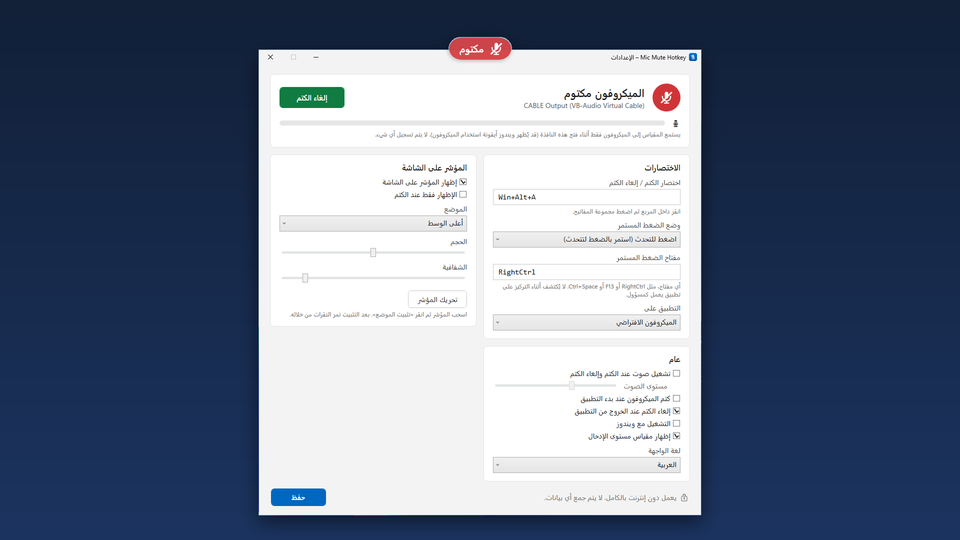
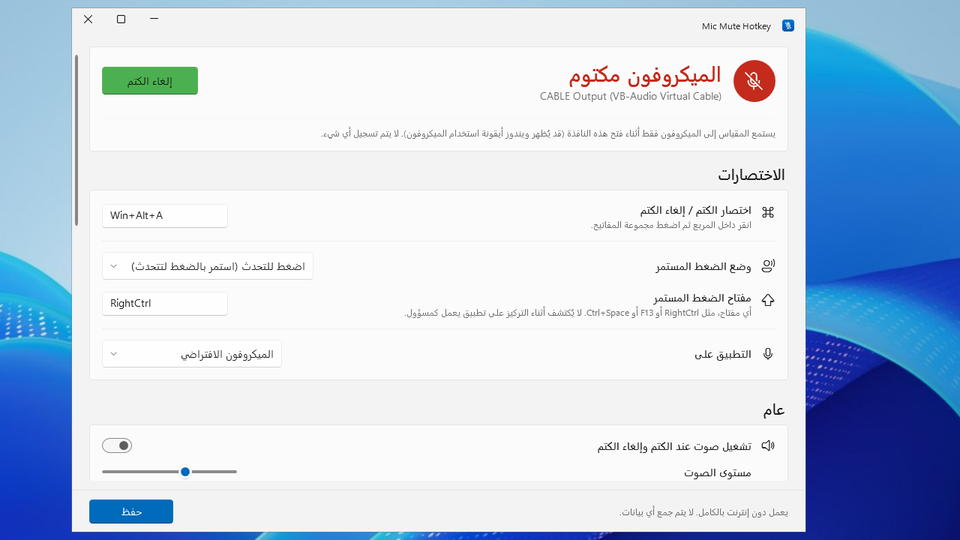
Mic Mute Hotkey 1.1.0.0: auto-mute on startup/lock, What's new, Windows 11 screenshots, softwareVersion, llms.txt, sitemap lastmod

diff --git a/ru/index.html b/ru/index.html
@@ -73,7 +73,7 @@ a{color:var(--b)}
    "applicationSubCategory": "Microphone mute / push-to-talk utility",
    "operatingSystem": "Windows 10 (version 1809 or later), Windows 11",
    "processorRequirements": "x64, ARM64",
-   "softwareVersion": "1.0",
+   "softwareVersion": "1.1.0.0",
    "inLanguage": [
     "en",
     "es",
@@ -100,12 +100,14 @@ a{color:var(--b)}
     "Следует за микрофоном по умолчанию при подключении гарнитуры или смене устройства; можно отключать все микрофоны сразу.",
     "Звуки (по желанию), запуск вместе с Windows, запуск с выключенным микрофоном, включение при выходе, индикатор уровня.",
     "Интерфейс на 15 языках с автоопределением; для арабского — справа налево.",
-    "Конфиденциально: офлайн, без учётной записи, телеметрии и рекламы; звук никогда не записывается."
+    "Конфиденциально: офлайн, без учётной записи, телеметрии и рекламы; звук никогда не записывается.",
+    "Автоотключение по желанию: микрофон может отключаться при запуске приложения вместе с Windows и каждый раз, когда вы блокируете ПК. После разблокировки он включается, только если был включён до блокировки."
    ],
    "image": "https://murtadhaqahtan.github.io/mic-mute-site/img/icon-512.png",
    "screenshot": [
     "https://murtadhaqahtan.github.io/mic-mute-site/img/settings-en.png",
-    "https://murtadhaqahtan.github.io/mic-mute-site/img/indicator.png"
+    "https://murtadhaqahtan.github.io/mic-mute-site/img/indicator.png",
+    "https://murtadhaqahtan.github.io/mic-mute-site/img/auto-mute.png"
    ],
    "author": {
     "@type": "Person",
@@ -197,6 +199,7 @@ a{color:var(--b)}
 </ol>
 <img class="shot" src="/mic-mute-site/img/settings-en.png" width="960" height="540" loading="lazy" alt="Окно настроек Mic Mute Hotkey: микрофон отключён, сочетание клавиш, режим «нажми и говори», параметры индикатора">
 <img class="shot" src="/mic-mute-site/img/indicator.png" width="960" height="540" loading="lazy" alt="Mic Mute Hotkey: Muted indicator on top of other windows">
+<img class="shot" src="/mic-mute-site/img/auto-mute.png" width="960" height="540" loading="lazy" alt="Настройки автоотключения в Mic Mute Hotkey">
 </section>
 <section><h2>Возможности</h2><ul>
 <li><b>Глобальное сочетание клавиш</b> для выключения и включения; по умолчанию <span dir="ltr"><kbd>Win</kbd>+<kbd>Alt</kbd>+<kbd>A</kbd></span>. Если на вашем ПК оно уже занято, приложение выберет свободное.</li>
@@ -205,9 +208,15 @@ a{color:var(--b)}
 <li><b>Индикатор на экране</b> поверх всех окон; щелчки проходят сквозь него, его можно перетащить, изменить размер, прозрачность и положение; можно показывать только при выключенном микрофоне.</li>
 <li><b>Значок в трее</b>: красный — выключен, зелёный — включён; щелчок переключает.</li>
 <li><b>Следует за микрофоном по умолчанию</b> при подключении гарнитуры или смене устройства; можно отключать все микрофоны сразу.</li>
+<li><b>Автоотключение по желанию</b>: микрофон может отключаться при запуске приложения вместе с Windows и каждый раз, когда вы блокируете ПК. После разблокировки он включается, только если был включён до блокировки.</li>
 <li>Звуки (по желанию), запуск вместе с Windows, запуск с выключенным микрофоном, включение при выходе, индикатор уровня.</li>
 <li>Интерфейс на 15 языках с автоопределением; для арабского — справа налево.</li>
 <li><b>Конфиденциально</b>: офлайн, без учётной записи, телеметрии и рекламы; звук никогда не записывается.</li>
+</ul></section>
+<section id="whats-new"><h2>Что нового в версии 1.1.0.0</h2><ul>
+<li>Новый дизайн для Windows 11: Mica, карточки Fluent, светлая и тёмная темы по настройкам системы.</li>
+<li>Меню в области уведомлений в том же стиле: значок у каждой команды и сочетание клавиш рядом с «Отключить».</li>
+<li>Новое: необязательное автоотключение микрофона при запуске приложения вместе с Windows и при блокировке ПК. После разблокировки микрофон включается, только если он был включён до блокировки. Обе функции выключены, пока вы их не включите.</li>
 </ul></section>
 <section><h2>Ограничения</h2><ul>
 <li>Только Windows (Windows 10 1809 и новее, Windows 11).</li>

diff --git a/ar/index.html b/ar/index.html
@@ -73,7 +73,7 @@ a{color:var(--b)}
    "applicationSubCategory": "Microphone mute / push-to-talk utility",
    "operatingSystem": "Windows 10 (version 1809 or later), Windows 11",
    "processorRequirements": "x64, ARM64",
-   "softwareVersion": "1.0",
+   "softwareVersion": "1.1.0.0",
    "inLanguage": [
     "en",
     "es",
@@ -100,12 +100,14 @@ a{color:var(--b)}
     "يتبع الميكروفون الافتراضي عند توصيل سماعة أو تغيير الجهاز، مع خيار كتم كل الميكروفونات.",
     "أصوات اختيارية، التشغيل مع ويندوز، البدء مكتوماً، إلغاء الكتم عند الخروج، مقياس مستوى الإدخال.",
     "واجهة بـ15 لغة تُختار تلقائياً، مع دعم كامل للعربية من اليمين لليسار.",
-    "خصوصية: يعمل دون إنترنت، دون حساب أو تتبع أو إعلانات، ولا يسجّل أي صوت."
+    "خصوصية: يعمل دون إنترنت، دون حساب أو تتبع أو إعلانات، ولا يسجّل أي صوت.",
+    "كتم تلقائي اختياري: يمكن أن يُكتم الميكروفون تلقائيًا عند تشغيل التطبيق مع ويندوز وكلما قفلت الكمبيوتر. وعند فتح القفل يعود فقط إذا كان مفتوحًا قبل القفل."
    ],
    "image": "https://murtadhaqahtan.github.io/mic-mute-site/img/icon-512.png",
    "screenshot": [
     "https://murtadhaqahtan.github.io/mic-mute-site/img/settings-en.png",
-    "https://murtadhaqahtan.github.io/mic-mute-site/img/indicator.png"
+    "https://murtadhaqahtan.github.io/mic-mute-site/img/indicator.png",
+    "https://murtadhaqahtan.github.io/mic-mute-site/img/auto-mute.png"
    ],
    "author": {
     "@type": "Person",
@@ -197,6 +199,7 @@ a{color:var(--b)}
 </ol>
 <img class="shot" src="/mic-mute-site/img/settings-ar.png" width="960" height="540" loading="lazy" alt="نافذة إعدادات Mic Mute Hotkey بالعربية: الميكروفون مكتوم، الاختصار، وضع اضغط للتحدث، خيارات المؤشر">
 <img class="shot" src="/mic-mute-site/img/indicator.png" width="960" height="540" loading="lazy" alt="Mic Mute Hotkey: Muted indicator on top of other windows">
+<img class="shot" src="/mic-mute-site/img/auto-mute.png" width="960" height="540" loading="lazy" alt="إعدادات الكتم التلقائي في Mic Mute Hotkey">
 </section>
 <section><h2>المزايا</h2><ul>
 <li><b>اختصار عام</b> للكتم وإلغائه، الافتراضي <span dir="ltr"><kbd>Win</kbd>+<kbd>Alt</kbd>+<kbd>A</kbd></span>. إذا كان برنامج آخر يستخدمه على جهازك، يختار التطبيق بديلاً متاحاً.</li>
@@ -205,9 +208,15 @@ a{color:var(--b)}
 <li><b>مؤشر على الشاشة</b> فوق كل النوافذ، تمر النقرات من خلاله، يمكن سحبه وتغيير حجمه وشفافيته وموضعه، أو إظهاره فقط عند الكتم.</li>
 <li><b>أيقونة شريط المهام</b>: حمراء عند الكتم وخضراء عند الفتح، انقر للتبديل.</li>
 <li><b>يتبع الميكروفون الافتراضي</b> عند توصيل سماعة أو تغيير الجهاز، مع خيار كتم كل الميكروفونات.</li>
+<li><b>كتم تلقائي اختياري</b>: يمكن أن يُكتم الميكروفون تلقائيًا عند تشغيل التطبيق مع ويندوز وكلما قفلت الكمبيوتر. وعند فتح القفل يعود فقط إذا كان مفتوحًا قبل القفل.</li>
 <li>أصوات اختيارية، التشغيل مع ويندوز، البدء مكتوماً، إلغاء الكتم عند الخروج، مقياس مستوى الإدخال.</li>
 <li>واجهة بـ15 لغة تُختار تلقائياً، مع دعم كامل للعربية من اليمين لليسار.</li>
 <li><b>خصوصية</b>: يعمل دون إنترنت، دون حساب أو تتبع أو إعلانات، ولا يسجّل أي صوت.</li>
+</ul></section>
+<section id="whats-new"><h2>الجديد في الإصدار 1.1.0.0</h2><ul>
+<li>تصميم جديد لويندوز 11: خلفية Mica وبطاقات Fluent ووضعان فاتح وداكن يتبعان إعدادات النظام.</li>
+<li>قائمة شريط المهام بنفس التصميم، مع أيقونة لكل أمر واختصار الكتم ظاهر بجانب «كتم».</li>
+<li>جديد: كتم تلقائي اختياري عند تشغيل التطبيق مع ويندوز وعند قفل الكمبيوتر. عند فتح القفل يعود الميكروفون فقط إذا كان مفتوحًا قبل القفل. الخياران معطّلان حتى تفعّلهما.</li>
 </ul></section>
 <section><h2>القيود</h2><ul>
 <li>ويندوز فقط (ويندوز 10 الإصدار 1809 أو أحدث، ويندوز 11).</li>

diff --git a/ja/index.html b/ja/index.html
@@ -73,7 +73,7 @@ a{color:var(--b)}
    "applicationSubCategory": "Microphone mute / push-to-talk utility",
    "operatingSystem": "Windows 10 (version 1809 or later), Windows 11",
    "processorRequirements": "x64, ARM64",
-   "softwareVersion": "1.0",
+   "softwareVersion": "1.1.0.0",
    "inLanguage": [
     "en",
     "es",
@@ -100,12 +100,14 @@ a{color:var(--b)}
     "既定のマイクに追従: ヘッドセットの接続やデバイス変更に対応。すべてのマイクをミュートするオプションもあります。",
     "効果音 (オプション)、Windows 起動時に開始、起動時にミュート、終了時に解除、入力レベル メーター。",
     "15 言語の UI (自動判別)。アラビア語は右から左のレイアウト。",
-    "プライバシー: オフライン、アカウント・テレメトリ・広告なし。音声は一切録音しません。"
+    "プライバシー: オフライン、アカウント・テレメトリ・広告なし。音声は一切録音しません。",
+    "自動ミュート (オプション): Windows と一緒にアプリが起動したときや PC をロックしたときに、マイクを自動でミュートできます。ロック解除時は、ロック前にオンだった場合だけ戻ります。"
    ],
    "image": "https://murtadhaqahtan.github.io/mic-mute-site/img/icon-512.png",
    "screenshot": [
     "https://murtadhaqahtan.github.io/mic-mute-site/img/settings-en.png",
-    "https://murtadhaqahtan.github.io/mic-mute-site/img/indicator.png"
+    "https://murtadhaqahtan.github.io/mic-mute-site/img/indicator.png",
+    "https://murtadhaqahtan.github.io/mic-mute-site/img/auto-mute.png"
    ],
    "author": {
     "@type": "Person",
@@ -197,6 +199,7 @@ a{color:var(--b)}
 </ol>
 <img class="shot" src="/mic-mute-site/img/settings-en.png" width="960" height="540" loading="lazy" alt="Mic Mute Hotkey の設定画面: マイクはミュート中、ショートカット、プッシュ トゥ トーク、インジケーターの設定">
 <img class="shot" src="/mic-mute-site/img/indicator.png" width="960" height="540" loading="lazy" alt="Mic Mute Hotkey: Muted indicator on top of other windows">
+<img class="shot" src="/mic-mute-site/img/auto-mute.png" width="960" height="540" loading="lazy" alt="Mic Mute Hotkey の自動ミュート設定">
 </section>
 <section><h2>機能</h2><ul>
 <li><b>グローバル ショートカット</b>でミュート / 解除。既定は <span dir="ltr"><kbd>Win</kbd>+<kbd>Alt</kbd>+<kbd>A</kbd></span>。PC で別のプログラムが使用中の場合は、空いている代替キーを自動で選びます。</li>
@@ -205,9 +208,15 @@ a{color:var(--b)}
 <li><b>画面上のインジケーター</b>: 常に最前面、クリックは透過、ドラッグで移動、サイズ・不透明度・位置を調整可能。ミュート中のみの表示も可能。</li>
 <li><b>トレイ アイコン</b>: ミュート中は赤、オンは緑。クリックで切り替え。</li>
 <li><b>既定のマイクに追従</b>: ヘッドセットの接続やデバイス変更に対応。すべてのマイクをミュートするオプションもあります。</li>
+<li><b>自動ミュート (オプション)</b>: Windows と一緒にアプリが起動したときや PC をロックしたときに、マイクを自動でミュートできます。ロック解除時は、ロック前にオンだった場合だけ戻ります。</li>
 <li>効果音 (オプション)、Windows 起動時に開始、起動時にミュート、終了時に解除、入力レベル メーター。</li>
 <li>15 言語の UI (自動判別)。アラビア語は右から左のレイアウト。</li>
 <li><b>プライバシー</b>: オフライン、アカウント・テレメトリ・広告なし。音声は一切録音しません。</li>
+</ul></section>
+<section id="whats-new"><h2>バージョン 1.1.0.0 の新機能</h2><ul>
+<li>Windows 11 向けに再デザイン: Mica、Fluent カード、システムに合わせて切り替わるライト/ダーク テーマ。</li>
+<li>トレイ メニューも同じデザインになり、各コマンドにアイコン、ミュートの横にショートカットを表示します。</li>
+<li>新機能: Windows と一緒にアプリが起動したときと PC をロックしたときに自動でミュートするオプション。ロック解除時は、ロック前にオンだった場合だけマイクが戻ります。どちらもオンにするまで無効です。</li>
 </ul></section>
 <section><h2>制限事項</h2><ul>
 <li>Windows 専用 (Windows 10 1809 以降、Windows 11)。</li>

diff --git a/index.html b/index.html
@@ -73,7 +73,7 @@ a{color:var(--b)}
    "applicationSubCategory": "Microphone mute / push-to-talk utility",
    "operatingSystem": "Windows 10 (version 1809 or later), Windows 11",
    "processorRequirements": "x64, ARM64",
-   "softwareVersion": "1.0",
+   "softwareVersion": "1.1.0.0",
    "inLanguage": [
     "en",
     "es",
@@ -101,12 +101,14 @@ a{color:var(--b)}
     "Stays in sync – if the microphone is muted or unmuted in Windows settings, the app picks up the change.",
     "Optional short mute/unmute sounds, start with Windows, start muted, unmute on exit, input level meter in the settings window.",
     "Interface in 15 languages (English, Spanish, Portuguese (Brazil), French, German, Italian, Russian, Turkish, Polish, Indonesian, Arabic, Hindi, Japanese, Korean, Chinese Simplified), chosen automatically from Windows; right-to-left layout for Arabic.",
-    "Private – works offline, no account, no telemetry, no ads; audio is never recorded."
+    "Private – works offline, no account, no telemetry, no ads; audio is never recorded.",
+    "Optional auto-mute: the microphone can mute itself when the app starts with Windows and whenever you lock the PC. On unlock it comes back only if it was live before the lock."
    ],
    "image": "https://murtadhaqahtan.github.io/mic-mute-site/img/icon-512.png",
    "screenshot": [
     "https://murtadhaqahtan.github.io/mic-mute-site/img/settings-en.png",
-    "https://murtadhaqahtan.github.io/mic-mute-site/img/indicator.png"
+    "https://murtadhaqahtan.github.io/mic-mute-site/img/indicator.png",
+    "https://murtadhaqahtan.github.io/mic-mute-site/img/auto-mute.png"
    ],
    "author": {
     "@type": "Person",
@@ -222,6 +224,7 @@ a{color:var(--b)}
 </ol>
 <img class="shot" src="/mic-mute-site/img/settings-en.png" width="960" height="540" loading="lazy" alt="Mic Mute Hotkey settings window: microphone muted, shortcut, push-to-talk mode, on-screen indicator options">
 <img class="shot" src="/mic-mute-site/img/indicator.png" width="960" height="540" loading="lazy" alt="Mic Mute Hotkey: Muted indicator on top of other windows">
+<img class="shot" src="/mic-mute-site/img/auto-mute.png" width="960" height="540" loading="lazy" alt="Mic Mute Hotkey Automatic mute settings: mute when the app starts with Windows, mute when the PC locks">
 </section>
 <section><h2>Features</h2><ul>
 <li><b>Global toggle shortcut</b> – any key combination; default <span dir="ltr"><kbd>Win</kbd>+<kbd>Alt</kbd>+<kbd>A</kbd></span>. If another program already uses it on your PC, the app picks a free alternative and shows it.</li>
@@ -231,9 +234,15 @@ a{color:var(--b)}
 <li><b>Tray icon</b> – red when muted, green when live; left-click to toggle, right-click for settings.</li>
 <li><b>Follows the default microphone</b> – plug in a headset or change the default device and the new microphone gets the same state; a microphone the app muted earlier is unmuted again. Option to mute all microphones at once.</li>
 <li><b>Stays in sync</b> – if the microphone is muted or unmuted in Windows settings, the app picks up the change.</li>
+<li><b>Optional auto-mute</b>: the microphone can mute itself when the app starts with Windows and whenever you lock the PC. On unlock it comes back only if it was live before the lock.</li>
 <li>Optional short mute/unmute sounds, start with Windows, start muted, unmute on exit, input level meter in the settings window.</li>
 <li>Interface in 15 languages (English, Spanish, Portuguese (Brazil), French, German, Italian, Russian, Turkish, Polish, Indonesian, Arabic, Hindi, Japanese, Korean, Chinese Simplified), chosen automatically from Windows; right-to-left layout for Arabic.</li>
 <li><b>Private</b> – works offline, no account, no telemetry, no ads; audio is never recorded.</li>
+</ul></section>
+<section id="whats-new"><h2>What’s new in 1.1.0.0</h2><ul>
+<li>Redesigned for Windows 11: Mica, Fluent cards, and light and dark themes that follow the system.</li>
+<li>The tray menu matches, with an icon on each command and the shortcut shown beside Mute.</li>
+<li>New, optional auto-mute when the app starts with Windows and when you lock the PC. On unlock, the microphone comes back only if it was live before the lock. Both are off until you turn them on.</li>
 </ul></section>
 <section><h2>Limitations</h2><ul>
 <li>Windows only (Windows 10 version 1809 or later, Windows 11). No macOS, Linux or mobile version.</li>

diff --git a/fr/index.html b/fr/index.html
@@ -73,7 +73,7 @@ a{color:var(--b)}
    "applicationSubCategory": "Microphone mute / push-to-talk utility",
    "operatingSystem": "Windows 10 (version 1809 or later), Windows 11",
    "processorRequirements": "x64, ARM64",
-   "softwareVersion": "1.0",
+   "softwareVersion": "1.1.0.0",
    "inLanguage": [
     "en",
     "es",
@@ -100,12 +100,14 @@ a{color:var(--b)}
     "Suit le micro par défaut quand vous branchez un casque ou changez de périphérique ; option pour couper tous les micros.",
     "Sons facultatifs, démarrage avec Windows, démarrage micro coupé, réactivation à la fermeture, vumètre d’entrée.",
     "Interface en 15 langues avec détection automatique ; mise en page de droite à gauche pour l’arabe.",
-    "Confidentiel : hors ligne, sans compte, sans télémétrie ni publicité ; aucun son n’est enregistré."
+    "Confidentiel : hors ligne, sans compte, sans télémétrie ni publicité ; aucun son n’est enregistré.",
+    "Coupure automatique facultative : le micro peut se couper quand l’app démarre avec Windows et chaque fois que vous verrouillez le PC. Au déverrouillage, il ne revient que s’il était actif avant."
    ],
    "image": "https://murtadhaqahtan.github.io/mic-mute-site/img/icon-512.png",
    "screenshot": [
     "https://murtadhaqahtan.github.io/mic-mute-site/img/settings-en.png",
-    "https://murtadhaqahtan.github.io/mic-mute-site/img/indicator.png"
+    "https://murtadhaqahtan.github.io/mic-mute-site/img/indicator.png",
+    "https://murtadhaqahtan.github.io/mic-mute-site/img/auto-mute.png"
    ],
    "author": {
     "@type": "Person",
@@ -197,6 +199,7 @@ a{color:var(--b)}
 </ol>
 <img class="shot" src="/mic-mute-site/img/settings-en.png" width="960" height="540" loading="lazy" alt="Fenêtre de paramètres de Mic Mute Hotkey : micro coupé, raccourci, mode appuyer pour parler, options de l’indicateur">
 <img class="shot" src="/mic-mute-site/img/indicator.png" width="960" height="540" loading="lazy" alt="Mic Mute Hotkey: Muted indicator on top of other windows">
+<img class="shot" src="/mic-mute-site/img/auto-mute.png" width="960" height="540" loading="lazy" alt="Réglages de coupure automatique de Mic Mute Hotkey">
 </section>
 <section><h2>Fonctionnalités</h2><ul>
 <li><b>Raccourci global</b> pour couper et réactiver ; par défaut <span dir="ltr"><kbd>Win</kbd>+<kbd>Alt</kbd>+<kbd>A</kbd></span>. Si un autre programme l’utilise déjà sur votre PC, l’application choisit une alternative libre.</li>
@@ -205,9 +208,15 @@ a{color:var(--b)}
 <li><b>Indicateur à l’écran</b> toujours au premier plan ; les clics le traversent, il se déplace et sa taille, son opacité et sa position se règlent ; affichage possible uniquement micro coupé.</li>
 <li><b>Icône de notification</b> : rouge coupé, vert actif ; clic pour basculer.</li>
 <li><b>Suit le micro par défaut</b> quand vous branchez un casque ou changez de périphérique ; option pour couper tous les micros.</li>
+<li><b>Coupure automatique facultative</b>: le micro peut se couper quand l’app démarre avec Windows et chaque fois que vous verrouillez le PC. Au déverrouillage, il ne revient que s’il était actif avant.</li>
 <li>Sons facultatifs, démarrage avec Windows, démarrage micro coupé, réactivation à la fermeture, vumètre d’entrée.</li>
 <li>Interface en 15 langues avec détection automatique ; mise en page de droite à gauche pour l’arabe.</li>
 <li><b>Confidentiel</b> : hors ligne, sans compte, sans télémétrie ni publicité ; aucun son n’est enregistré.</li>
+</ul></section>
+<section id="whats-new"><h2>Nouveautés de la version 1.1.0.0</h2><ul>
+<li>Nouveau design pour Windows 11 : Mica, cartes Fluent et thèmes clair et sombre qui suivent le système.</li>
+<li>Le menu de la zone de notification est assorti, avec une icône pour chaque commande et le raccourci affiché à côté de « Couper ».</li>
+<li>Nouveau : coupure automatique facultative du micro quand l’app démarre avec Windows et quand vous verrouillez le PC. Au déverrouillage, le micro ne revient que s’il était actif avant le verrouillage. Les deux options sont désactivées tant que vous ne les activez pas.</li>
 </ul></section>
 <section><h2>Limites</h2><ul>
 <li>Windows uniquement (Windows 10 1809 ou ultérieur, Windows 11).</li>

diff --git a/es/index.html b/es/index.html
@@ -73,7 +73,7 @@ a{color:var(--b)}
    "applicationSubCategory": "Microphone mute / push-to-talk utility",
    "operatingSystem": "Windows 10 (version 1809 or later), Windows 11",
    "processorRequirements": "x64, ARM64",
-   "softwareVersion": "1.0",
+   "softwareVersion": "1.1.0.0",
    "inLanguage": [
     "en",
     "es",
@@ -100,12 +100,14 @@ a{color:var(--b)}
     "Sigue al micrófono predeterminado al conectar unos auriculares o cambiar de dispositivo; opción de silenciar todos los micrófonos.",
     "Sonidos opcionales, iniciar con Windows, iniciar silenciado, activar al salir, medidor de nivel de entrada.",
     "Interfaz en 15 idiomas con detección automática; diseño de derecha a izquierda para el árabe.",
-    "Privado: sin conexión, sin cuenta, sin telemetría ni anuncios; nunca se graba audio."
+    "Privado: sin conexión, sin cuenta, sin telemetría ni anuncios; nunca se graba audio.",
+    "Silencio automático opcional: el micrófono puede silenciarse cuando la app se inicia con Windows y cada vez que bloqueas el PC. Al desbloquear, vuelve solo si estaba activo antes del bloqueo."
    ],
    "image": "https://murtadhaqahtan.github.io/mic-mute-site/img/icon-512.png",
    "screenshot": [
     "https://murtadhaqahtan.github.io/mic-mute-site/img/settings-en.png",
-    "https://murtadhaqahtan.github.io/mic-mute-site/img/indicator.png"
+    "https://murtadhaqahtan.github.io/mic-mute-site/img/indicator.png",
+    "https://murtadhaqahtan.github.io/mic-mute-site/img/auto-mute.png"
    ],
    "author": {
     "@type": "Person",
@@ -197,6 +199,7 @@ a{color:var(--b)}
 </ol>
 <img class="shot" src="/mic-mute-site/img/settings-en.png" width="960" height="540" loading="lazy" alt="Ventana de configuración de Mic Mute Hotkey: micrófono silenciado, atajo, modo pulsar para hablar, opciones del indicador">
 <img class="shot" src="/mic-mute-site/img/indicator.png" width="960" height="540" loading="lazy" alt="Mic Mute Hotkey: Muted indicator on top of other windows">
+<img class="shot" src="/mic-mute-site/img/auto-mute.png" width="960" height="540" loading="lazy" alt="Ajustes de silencio automático de Mic Mute Hotkey">
 </section>
 <section><h2>Características</h2><ul>
 <li><b>Atajo global</b> para silenciar y activar; predeterminado <span dir="ltr"><kbd>Win</kbd>+<kbd>Alt</kbd>+<kbd>A</kbd></span>. Si otro programa ya lo usa en tu PC, la aplicación elige una alternativa libre.</li>
@@ -205,9 +208,15 @@ a{color:var(--b)}
 <li><b>Indicador en pantalla</b> siempre visible; los clics lo atraviesan, se puede arrastrar y ajustar su tamaño, opacidad y posición; opcionalmente solo cuando está silenciado.</li>
 <li><b>Icono en la bandeja</b>: rojo silenciado, verde activo; clic para alternar.</li>
 <li><b>Sigue al micrófono predeterminado</b> al conectar unos auriculares o cambiar de dispositivo; opción de silenciar todos los micrófonos.</li>
+<li><b>Silencio automático opcional</b>: el micrófono puede silenciarse cuando la app se inicia con Windows y cada vez que bloqueas el PC. Al desbloquear, vuelve solo si estaba activo antes del bloqueo.</li>
 <li>Sonidos opcionales, iniciar con Windows, iniciar silenciado, activar al salir, medidor de nivel de entrada.</li>
 <li>Interfaz en 15 idiomas con detección automática; diseño de derecha a izquierda para el árabe.</li>
 <li><b>Privado</b>: sin conexión, sin cuenta, sin telemetría ni anuncios; nunca se graba audio.</li>
+</ul></section>
+<section id="whats-new"><h2>Novedades de la versión 1.1.0.0</h2><ul>
+<li>Rediseño para Windows 11: Mica, tarjetas Fluent y temas claro y oscuro que siguen al sistema.</li>
+<li>El menú de la bandeja combina con él, con un icono en cada comando y el atajo junto a «Silenciar».</li>
+<li>Nuevo: silencio automático opcional cuando la app se inicia con Windows y cuando bloqueas el PC. Al desbloquear, el micrófono vuelve solo si estaba activo antes del bloqueo. Ambas opciones están desactivadas hasta que las actives.</li>
 </ul></section>
 <section><h2>Limitaciones</h2><ul>
 <li>Solo Windows (Windows 10 1809 o posterior, Windows 11).</li>

diff --git a/de/index.html b/de/index.html
@@ -73,7 +73,7 @@ a{color:var(--b)}
    "applicationSubCategory": "Microphone mute / push-to-talk utility",
    "operatingSystem": "Windows 10 (version 1809 or later), Windows 11",
    "processorRequirements": "x64, ARM64",
-   "softwareVersion": "1.0",
+   "softwareVersion": "1.1.0.0",
    "inLanguage": [
     "en",
     "es",
@@ -100,12 +100,14 @@ a{color:var(--b)}
     "Folgt dem Standardmikrofon, wenn du ein Headset ansteckst oder das Gerät wechselst; Option, alle Mikrofone stummzuschalten.",
     "Optionale Töne, Start mit Windows, stumm starten, beim Beenden wieder einschalten, Eingangspegelanzeige.",
     "Oberfläche in 15 Sprachen mit automatischer Erkennung; Rechts-nach-links-Layout für Arabisch.",
-    "Privat: offline, kein Konto, keine Telemetrie, keine Werbung; es wird nie Audio aufgezeichnet."
+    "Privat: offline, kein Konto, keine Telemetrie, keine Werbung; es wird nie Audio aufgezeichnet.",
+    "Optional automatisch stumm: Das Mikrofon kann sich stummschalten, wenn die App mit Windows startet und wann immer du den PC sperrst. Beim Entsperren wird es nur wieder aktiv, wenn es vorher aktiv war."
    ],
    "image": "https://murtadhaqahtan.github.io/mic-mute-site/img/icon-512.png",
    "screenshot": [
     "https://murtadhaqahtan.github.io/mic-mute-site/img/settings-en.png",
-    "https://murtadhaqahtan.github.io/mic-mute-site/img/indicator.png"
+    "https://murtadhaqahtan.github.io/mic-mute-site/img/indicator.png",
+    "https://murtadhaqahtan.github.io/mic-mute-site/img/auto-mute.png"
    ],
    "author": {
     "@type": "Person",
@@ -197,6 +199,7 @@ a{color:var(--b)}
 </ol>
 <img class="shot" src="/mic-mute-site/img/settings-en.png" width="960" height="540" loading="lazy" alt="Einstellungsfenster von Mic Mute Hotkey: Mikrofon stumm, Tastenkürzel, Push-to-Talk-Modus, Optionen der Bildschirmanzeige">
 <img class="shot" src="/mic-mute-site/img/indicator.png" width="960" height="540" loading="lazy" alt="Mic Mute Hotkey: Muted indicator on top of other windows">
+<img class="shot" src="/mic-mute-site/img/auto-mute.png" width="960" height="540" loading="lazy" alt="Einstellungen für automatisches Stummschalten in Mic Mute Hotkey">
 </section>
 <section><h2>Funktionen</h2><ul>
 <li><b>Globales Tastenkürzel</b> zum Stumm- und Einschalten; Standard <span dir="ltr"><kbd>Win</kbd>+<kbd>Alt</kbd>+<kbd>A</kbd></span>. Ist es auf deinem PC schon belegt, wählt die App eine freie Alternative.</li>
@@ -205,9 +208,15 @@ a{color:var(--b)}
 <li><b>Bildschirmanzeige</b> immer im Vordergrund; Klicks gehen hindurch, verschiebbar, Größe, Deckkraft und Position einstellbar; auf Wunsch nur im stummen Zustand.</li>
 <li><b>Infobereich-Symbol</b>: rot = stumm, grün = aktiv; Klick schaltet um.</li>
 <li><b>Folgt dem Standardmikrofon</b>, wenn du ein Headset ansteckst oder das Gerät wechselst; Option, alle Mikrofone stummzuschalten.</li>
+<li><b>Optional automatisch stumm</b>: Das Mikrofon kann sich stummschalten, wenn die App mit Windows startet und wann immer du den PC sperrst. Beim Entsperren wird es nur wieder aktiv, wenn es vorher aktiv war.</li>
 <li>Optionale Töne, Start mit Windows, stumm starten, beim Beenden wieder einschalten, Eingangspegelanzeige.</li>
 <li>Oberfläche in 15 Sprachen mit automatischer Erkennung; Rechts-nach-links-Layout für Arabisch.</li>
 <li><b>Privat</b>: offline, kein Konto, keine Telemetrie, keine Werbung; es wird nie Audio aufgezeichnet.</li>
+</ul></section>
+<section id="whats-new"><h2>Neu in Version 1.1.0.0</h2><ul>
+<li>Neu gestaltet für Windows 11: Mica, Fluent-Karten sowie helles und dunkles Design passend zum System.</li>
+<li>Das Infobereich-Menü passt dazu, mit einem Symbol bei jedem Befehl und dem Tastenkürzel neben „Stumm“.</li>
+<li>Neu: optionales automatisches Stummschalten, wenn die App mit Windows startet und wenn du den PC sperrst. Beim Entsperren wird das Mikrofon nur wieder aktiv, wenn es vor dem Sperren aktiv war. Beides ist aus, bis du es einschaltest.</li>
 </ul></section>
 <section><h2>Einschränkungen</h2><ul>
 <li>Nur Windows (Windows 10 ab 1809, Windows 11).</li>

diff --git a/pt-br/index.html b/pt-br/index.html
@@ -73,7 +73,7 @@ a{color:var(--b)}
    "applicationSubCategory": "Microphone mute / push-to-talk utility",
    "operatingSystem": "Windows 10 (version 1809 or later), Windows 11",
    "processorRequirements": "x64, ARM64",
-   "softwareVersion": "1.0",
+   "softwareVersion": "1.1.0.0",
    "inLanguage": [
     "en",
     "es",
@@ -100,12 +100,14 @@ a{color:var(--b)}
     "Segue o microfone padrão ao conectar um headset ou trocar de dispositivo; opção de silenciar todos os microfones.",
     "Sons opcionais, iniciar com o Windows, iniciar no mudo, ativar ao sair, medidor de nível de entrada.",
     "Interface em 15 idiomas com detecção automática; layout da direita para a esquerda para o árabe.",
-    "Privado: offline, sem conta, sem telemetria nem anúncios; nunca grava áudio."
+    "Privado: offline, sem conta, sem telemetria nem anúncios; nunca grava áudio.",
+    "Silenciamento automático opcional: o microfone pode ser silenciado quando o app inicia com o Windows e sempre que você bloqueia o PC. Ao desbloquear, ele volta só se estava ativo antes do bloqueio."
    ],
    "image": "https://murtadhaqahtan.github.io/mic-mute-site/img/icon-512.png",
    "screenshot": [
     "https://murtadhaqahtan.github.io/mic-mute-site/img/settings-en.png",
-    "https://murtadhaqahtan.github.io/mic-mute-site/img/indicator.png"
+    "https://murtadhaqahtan.github.io/mic-mute-site/img/indicator.png",
+    "https://murtadhaqahtan.github.io/mic-mute-site/img/auto-mute.png"
    ],
    "author": {
     "@type": "Person",
@@ -197,6 +199,7 @@ a{color:var(--b)}
 </ol>
 <img class="shot" src="/mic-mute-site/img/settings-en.png" width="960" height="540" loading="lazy" alt="Janela de configurações do Mic Mute Hotkey: microfone no mudo, atalho, modo apertar para falar, opções do indicador">
 <img class="shot" src="/mic-mute-site/img/indicator.png" width="960" height="540" loading="lazy" alt="Mic Mute Hotkey: Muted indicator on top of other windows">
+<img class="shot" src="/mic-mute-site/img/auto-mute.png" width="960" height="540" loading="lazy" alt="Configurações de silenciamento automático do Mic Mute Hotkey">
 </section>
 <section><h2>Recursos</h2><ul>
 <li><b>Atalho global</b> para silenciar e ativar; padrão <span dir="ltr"><kbd>Win</kbd>+<kbd>Alt</kbd>+<kbd>A</kbd></span>. Se outro programa já usa esse atalho no seu PC, o app escolhe uma alternativa livre.</li>
@@ -205,9 +208,15 @@ a{color:var(--b)}
 <li><b>Indicador na tela</b> sempre visível; os cliques passam através dele, pode ser arrastado e ter tamanho, opacidade e posição ajustados; opcionalmente só no mudo.</li>
 <li><b>Ícone na bandeja</b>: vermelho no mudo, verde ativo; clique para alternar.</li>
 <li><b>Segue o microfone padrão</b> ao conectar um headset ou trocar de dispositivo; opção de silenciar todos os microfones.</li>
+<li><b>Silenciamento automático opcional</b>: o microfone pode ser silenciado quando o app inicia com o Windows e sempre que você bloqueia o PC. Ao desbloquear, ele volta só se estava ativo antes do bloqueio.</li>
 <li>Sons opcionais, iniciar com o Windows, iniciar no mudo, ativar ao sair, medidor de nível de entrada.</li>
 <li>Interface em 15 idiomas com detecção automática; layout da direita para a esquerda para o árabe.</li>
 <li><b>Privado</b>: offline, sem conta, sem telemetria nem anúncios; nunca grava áudio.</li>
+</ul></section>
+<section id="whats-new"><h2>Novidades da versão 1.1.0.0</h2><ul>
+<li>Novo visual para o Windows 11: Mica, cartões Fluent e temas claro e escuro que seguem o sistema.</li>
+<li>O menu da bandeja combina com ele, com um ícone em cada comando e o atalho ao lado de Silenciar.</li>
+<li>Novo: silenciamento automático opcional quando o app inicia com o Windows e quando você bloqueia o PC. Ao desbloquear, o microfone volta só se estava ativo antes do bloqueio. As duas opções ficam desligadas até você ativá-las.</li>
 </ul></section>
 <section><h2>Limitações</h2><ul>
 <li>Somente Windows (Windows 10 1809 ou posterior, Windows 11).</li>
